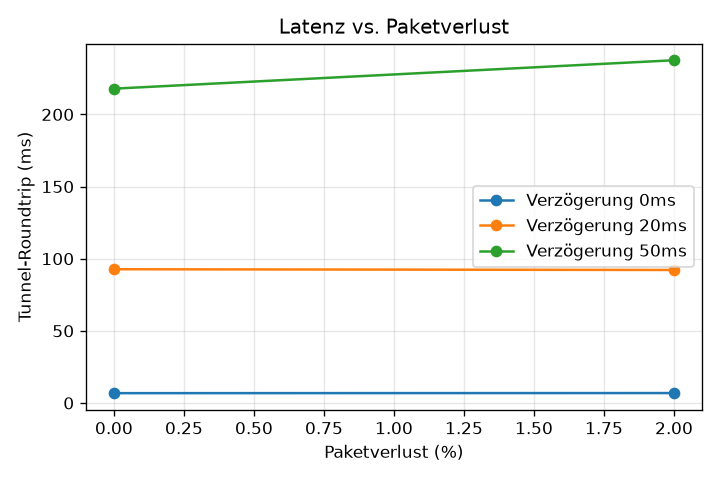
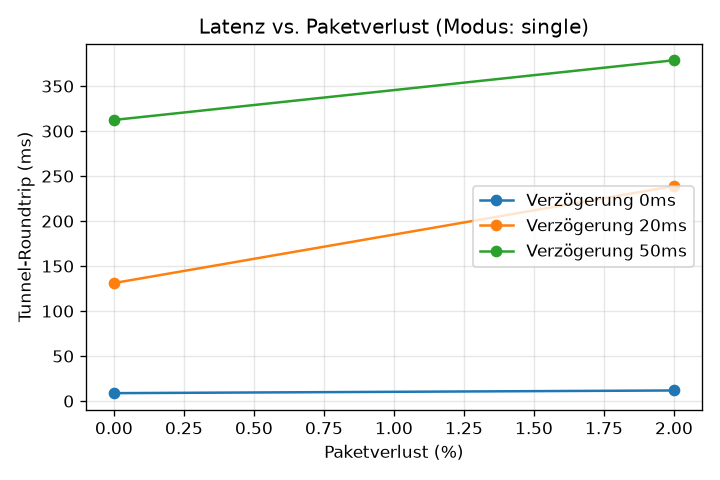
M16.4b: mode-aware evaluation figures
Extend plot.py for the mode dimension. The per-loss figures (latency-vs-delay,
latency-vs-loss) are now filtered to the reference mode (single) so modes are no
longer mixed on one axis, and a new plot_by_mode renders mean vs delay with one
series per mode at 0% loss -> latency-by-mode.png.

Rendered via scripts/plot.sh in the python+matplotlib container:
latency-vs-delay.png, latency-vs-loss.png, latency-by-mode.png. The mode figure
shows single/stream/udp overlapping at 0% loss -- latency is delay-dominated
(~6.5*delay), not transport-dominated.

No Rust changed -> workspace unchanged and green (TOTAL_PASSED=160); verification
is the plot run + visual check of the figure. Next: M16.4c the written analysis,
which closes M16.

Claude-Session: https://claude.ai/code/session_01TWNQVzYqWaWG8nB9JL6He3

diff --git a/scripts/plot.py b/scripts/plot.py
@@ -1,15 +1,18 @@
 #!/usr/bin/env python3
-"""M6.3 — render thesis evaluation figures from the netem sweep CSV.
+"""M6.3 / M16.4 — render thesis evaluation figures from the netem sweep CSV.
 
-Reads the sweep output (delay,loss,rate,n,mean_ms,min_ms,max_ms,p50_ms,p95_ms)
-and renders PNG figures next to it. Runs headless (Agg); intended to be executed
-inside a python container via scripts/plot.sh (no host install).
+Reads the sweep output and renders PNG figures next to it. Runs headless (Agg);
+intended to run inside a python container via scripts/plot.sh (no host install).
 
-Figures:
-  latency-vs-delay.png  — mean round-trip vs edge delay, one series per loss,
-                          p95 as the upper error bar.
-  latency-vs-loss.png   — mean round-trip vs packet loss (only when the sweep
-                          covers >1 distinct loss value).
+The M16 CSV carries a ``mode`` column (single/stream/udp); older CSVs without it
+are treated as a single mode. Figures:
+
+  latency-vs-delay.png  — mean round-trip vs edge delay for the reference mode,
+                          one series per loss, p95 as the upper error bar.
+  latency-vs-loss.png   — mean round-trip vs packet loss for the reference mode
+                          (only when the sweep covers >1 distinct loss value).
+  latency-by-mode.png   — mode comparison: mean round-trip vs edge delay, one
+                          series per mode at a fixed loss (only when >1 mode).
 """
 import csv
 import os
@@ -32,6 +35,24 @@ def num(s):
     return float(m.group(1)) if m else 0.0
 
 
+def mode_of(r):
+    return (r.get("mode") or "single").strip() or "single"
+
+
+def modes(rows):
+    seen = []
+    for r in rows:
+        m = mode_of(r)
+        if m not in seen:
+            seen.append(m)
+    return seen
+
+
+def reference_mode(rows):
+    ms = modes(rows)
+    return "single" if "single" in ms else ms[0]
+
+
 def load(path):
     with open(path, newline="") as f:
         rows = list(csv.DictReader(f))
@@ -41,9 +62,10 @@ def load(path):
     return rows
 
 
-def plot_vs_delay(rows):
+def plot_vs_delay(rows, mode):
+    sub = [r for r in rows if mode_of(r) == mode]
     by_loss = defaultdict(list)
-    for r in rows:
+    for r in sub:
         by_loss[r["loss"]].append((num(r["delay"]), float(r["mean_ms"]), float(r["p95_ms"])))
 
     plt.figure(figsize=(6, 4))
@@ -54,11 +76,11 @@ def plot_vs_delay(rows):
         upper = [max(0.0, p[2] - p[1]) for p in pts]
         plt.errorbar(
             xs, means, yerr=[[0] * len(means), upper],
-            marker="o", capsize=3, label=f"Verlust {loss}",
+            marker="o", capsize=3, label=f"Verlust {loss or '0%'}",
         )
     plt.xlabel("Edge-Verzögerung (ms)")
     plt.ylabel("Tunnel-Roundtrip (ms)")
-    plt.title("Latenz vs. Netzwerkverzögerung")
+    plt.title(f"Latenz vs. Netzwerkverzögerung (Modus: {mode})")
     plt.legend()
     plt.grid(True, alpha=0.3)
     out = os.path.join(OUTDIR, "latency-vs-delay.png")
@@ -68,24 +90,25 @@ def plot_vs_delay(rows):
     print("plot: wrote", out)
 
 
-def plot_vs_loss(rows):
-    by_delay = defaultdict(list)
-    for r in rows:
-        by_delay[r["delay"]].append((num(r["loss"]), float(r["mean_ms"])))
-    losses = {num(r["loss"]) for r in rows}
+def plot_vs_loss(rows, mode):
+    sub = [r for r in rows if mode_of(r) == mode]
+    losses = {num(r["loss"]) for r in sub}
     if len(losses) < 2:
         print("plot: <2 distinct loss values, skipping latency-vs-loss")
         return
+    by_delay = defaultdict(list)
+    for r in sub:
+        by_delay[r["delay"]].append((num(r["loss"]), float(r["mean_ms"])))
 
     plt.figure(figsize=(6, 4))
     for delay, pts in sorted(by_delay.items(), key=lambda kv: num(kv[0])):
         pts.sort()
         xs = [p[0] for p in pts]
         means = [p[1] for p in pts]
-        plt.plot(xs, means, marker="o", label=f"Verzögerung {delay}")
+        plt.plot(xs, means, marker="o", label=f"Verzögerung {delay or '0ms'}")
     plt.xlabel("Paketverlust (%)")
     plt.ylabel("Tunnel-Roundtrip (ms)")
-    plt.title("Latenz vs. Paketverlust")
+    plt.title(f"Latenz vs. Paketverlust (Modus: {mode})")
     plt.legend()
     plt.grid(True, alpha=0.3)
     out = os.path.join(OUTDIR, "latency-vs-loss.png")
@@ -95,10 +118,48 @@ def plot_vs_loss(rows):
     print("plot: wrote", out)
 
 
+def plot_by_mode(rows, loss="0%"):
+    ms = modes(rows)
+    if len(ms) < 2:
+        print("plot: <2 modes, skipping latency-by-mode")
+        return
+    plt.figure(figsize=(6, 4))
+    plotted = False
+    for m in ms:
+        pts = [
+            (num(r["delay"]), float(r["mean_ms"]))
+            for r in rows
+            if mode_of(r) == m and (r["loss"] or "0%") == loss
+        ]
+        if not pts:
+            continue
+        pts.sort()
+        xs = [p[0] for p in pts]
+        means = [p[1] for p in pts]
+        plt.plot(xs, means, marker="o", label=m)
+        plotted = True
+    if not plotted:
+        print(f"plot: no rows at loss={loss}, skipping latency-by-mode")
+        plt.close()
+        return
+    plt.xlabel("Edge-Verzögerung (ms)")
+    plt.ylabel("Tunnel-Roundtrip (ms)")
+    plt.title(f"Latenz je Betriebsart (Verlust {loss})")
+    plt.legend()
+    plt.grid(True, alpha=0.3)
+    out = os.path.join(OUTDIR, "latency-by-mode.png")
+    plt.tight_layout()
+    plt.savefig(out, dpi=120)
+    plt.close()
+    print("plot: wrote", out)
+
+
 def main():
     rows = load(DATA)
-    plot_vs_delay(rows)
-    plot_vs_loss(rows)
+    ref = reference_mode(rows)
+    plot_vs_delay(rows, ref)
+    plot_vs_loss(rows, ref)
+    plot_by_mode(rows, "0%")
 
 
 if __name__ == "__main__":

diff --git a/docs/planning/v1-first-task-packets.md b/docs/planning/v1-first-task-packets.md
@@ -423,8 +423,10 @@ Decomposed:
   analysis under `docs/thesis/data/`. Decomposed:
   - **M16.4a** ✅ mode-aware `tabulate.py` (Modus column, mean±95%-CI, p50/p95/p99;
     back-compatible with old CSVs) → regenerated `results-table.{md,tex}`.
-  - **M16.4b** mode-aware `plot.py`: latency-vs-delay per mode + a mode-comparison
-    figure.
+  - **M16.4b** ✅ mode-aware `plot.py`: per-loss figures filtered to the reference
+    mode + a new `latency-by-mode.png` (mean vs delay, one series per mode at 0%
+    loss). Rendered all three PNGs; the modes overlap at 0% loss (latency is
+    delay-dominated, not transport-dominated).
   - **M16.4c** write the German analysis (`results.md`) from the new data.
 
 ## Milestone 17 — Tiefe BA-Thesis (ersetzt M7, HAW-Vorlage, ~64 S.)

diff --git a/docs/planning/PROGRESS.md b/docs/planning/PROGRESS.md
@@ -38,7 +38,7 @@ Gap-Analyse gegen Code → Roadmap in `v1-first-task-packets.md`: **M9** generel
 ### 📄 BA-Thesis-Neugestaltung (User-Direktive, Zyklus 75)
 Die M7-Thesis (21 S., `docs/thesis/thesis.tex`) wird **ersetzt**: zu flach, falsche Vorlage. Neu: **offizielle HAW-Vorlage** (heruntergeladen+extrahiert nach `docs/thesis/haw-template/`), **~64 Seiten**, tiefere/besser formulierte Analysen, und die **Experimente/Parameterstudie ans Ende** (erst Produkt M11–M15 fertig, dann Studie am fertigen Produkt). Neue Milestones **M16** (umfassende Parameterstudie) + **M17** (tiefe Thesis) — Details in `v1-first-task-packets.md`.
 
-**M16** (umfassende Parameterstudie am fertigen Produkt): M16.1 ✅ (**statistisch belastbare `Summary`** — `bench::summarize` liefert jetzt zusätzlich `stddev_ms` [Stichproben-Std, n−1-Nenner, 0 bei n<2], `ci95_ms` [Halbbreite des 95%-KI des Mittels = 1.96·σ/√n] und `p99_ms`; `CSV_HEADER`/`csv_row` um diese drei Spalten **hinten angehängt** [erste 9 Spalten unverändert → bestehende plot.py/tabulate.py brechen nicht]. 3 Tests: bekannte Samples inkl. σ/KI/p99, Einzel-Sample→0 Spread, csv_row-Format) · M16.2 ✅ (**`sweep.sh` erweitert** — PoW-Schwierigkeitsachse `SWEEP_POWS` → `EDGE_POW_DIFFICULTY` [neu über `docker-compose.yml` als `${EDGE_POW_DIFFICULTY:-8}` durchgereicht, Default unverändert], 12-Spalten-Stats-CSV mit vorangestellter `pow`-Spalte, `run_condition(pow,delay,loss,rate)`, Default-n auf 30. Validiert: `bash -n` OK, `docker compose config` zeigt Override 16 bzw. Default 8) · M16.2b ✅ (**Stream-Betriebsart messbar** — `bench::run_bench_stream`/`run_once_stream`: pro Iteration dial→`client_tunnel_stream` mit lokalem Duplex, Payload schreiben→half-close→Echo lesen, Zeit messen [voll-duplex Streaming-Pfad statt one-shot]; Client-`main` wählt via `CT_BENCH_MODE=stream` zwischen `run_bench`/`run_bench_stream`; `sweep.sh` um `SWEEP_MODES`-Achse [Default "single"] + `mode`-Spalte erweitert, `BENCH_MODE` über `docker-compose.yml` durchgereicht. Frozen-Test `run_bench_stream_measures_iterations`: Agent serviert `serve_noise_stream`, 3 Streaming-Round-Trips gemessen. Validiert: bash -n OK, compose config `CT_BENCH_MODE: stream`. **TOTAL_PASSED=159**) · M16.2c ✅ (**UDP-Betriebsart messbar** — `bench::run_bench_udp`/`run_once_udp`: pro Iteration dial→`udp_selftest` [ein Datagramm durch den Tunnel + Echo], Zeit ab dial; Client-`main`-Bench-Zweig als `match CT_BENCH_MODE {stream, udp, _}` umgebaut. Frozen-Test `run_bench_udp_measures_iterations`: Agent `serve_noise_udp`, **fixed-port** UDP-Echo-Origin [`recv_from`→`send_to peer` vom gebundenen Port], 3 Round-Trips. **TOTAL_PASSED=160**. Der Live-`SWEEP_MODES=udp`-Compose-Lauf braucht einen fixed-port-UDP-Echo [socat-`fork` antwortet von Ephemeral-Port → vom connected Agent-Socket verworfen] → Overlay kommt in M16.3) · M16.3 ✅ (**Matrix live gefahren → CSV** — neues Bin `crates/agent/src/bin/udp_echo.rs` [fixed-port UDP-Echo, `recv_from`→`send_to peer` vom gebundenen :8080, multi-iteration-fähig], `docker/docker-compose.udpbench.yml`-Overlay [origin=udp_echo, agent proto=udp], `sweep.sh` wählt das Overlay bei `mode=udp`. Live-Lauf `SWEEP_MODES="single stream udp" SWEEP_DELAYS="0ms 20ms 50ms" SWEEP_LOSSES="0% 2%" n=20` → `docs/thesis/data/latency.csv`, **18 Zeilen** über alle 3 Modi mit voller M16-Statistik. Ergebnisse: Baseline ~8ms alle Modi; Latenz skaliert ~6.5·delay [Handshake-RTTs: 20ms→131ms, 50ms→312ms]; 2% Verlust treibt den p99-Tail auf ~1.3s [retransmit-getrieben]) · M16.4a ✅ (**tabulate.py modus-aware** — führende `Modus`-Spalte, `Mittel ± 95%-KI` [aus `ci95_ms`] + p50/p95/p99; abwärtskompatibel [fehlende Spalten → "single"/"-"], sortiert nach (mode,delay,loss). Neu generiert `results-table.md` [18 Zeilen] + `results-table.tex` [booktabs, `$\pm$`]. Im Python-Container [stdlib, kein pip] gelaufen) · M16.4b ⏳ plot.py modus-aware (Latenz-vs-Delay je Modus + Modus-Vergleichsplot) · M16.4c ⏳ deutsche Analyse `results.md`.
+**M16** (umfassende Parameterstudie am fertigen Produkt): M16.1 ✅ (**statistisch belastbare `Summary`** — `bench::summarize` liefert jetzt zusätzlich `stddev_ms` [Stichproben-Std, n−1-Nenner, 0 bei n<2], `ci95_ms` [Halbbreite des 95%-KI des Mittels = 1.96·σ/√n] und `p99_ms`; `CSV_HEADER`/`csv_row` um diese drei Spalten **hinten angehängt** [erste 9 Spalten unverändert → bestehende plot.py/tabulate.py brechen nicht]. 3 Tests: bekannte Samples inkl. σ/KI/p99, Einzel-Sample→0 Spread, csv_row-Format) · M16.2 ✅ (**`sweep.sh` erweitert** — PoW-Schwierigkeitsachse `SWEEP_POWS` → `EDGE_POW_DIFFICULTY` [neu über `docker-compose.yml` als `${EDGE_POW_DIFFICULTY:-8}` durchgereicht, Default unverändert], 12-Spalten-Stats-CSV mit vorangestellter `pow`-Spalte, `run_condition(pow,delay,loss,rate)`, Default-n auf 30. Validiert: `bash -n` OK, `docker compose config` zeigt Override 16 bzw. Default 8) · M16.2b ✅ (**Stream-Betriebsart messbar** — `bench::run_bench_stream`/`run_once_stream`: pro Iteration dial→`client_tunnel_stream` mit lokalem Duplex, Payload schreiben→half-close→Echo lesen, Zeit messen [voll-duplex Streaming-Pfad statt one-shot]; Client-`main` wählt via `CT_BENCH_MODE=stream` zwischen `run_bench`/`run_bench_stream`; `sweep.sh` um `SWEEP_MODES`-Achse [Default "single"] + `mode`-Spalte erweitert, `BENCH_MODE` über `docker-compose.yml` durchgereicht. Frozen-Test `run_bench_stream_measures_iterations`: Agent serviert `serve_noise_stream`, 3 Streaming-Round-Trips gemessen. Validiert: bash -n OK, compose config `CT_BENCH_MODE: stream`. **TOTAL_PASSED=159**) · M16.2c ✅ (**UDP-Betriebsart messbar** — `bench::run_bench_udp`/`run_once_udp`: pro Iteration dial→`udp_selftest` [ein Datagramm durch den Tunnel + Echo], Zeit ab dial; Client-`main`-Bench-Zweig als `match CT_BENCH_MODE {stream, udp, _}` umgebaut. Frozen-Test `run_bench_udp_measures_iterations`: Agent `serve_noise_udp`, **fixed-port** UDP-Echo-Origin [`recv_from`→`send_to peer` vom gebundenen Port], 3 Round-Trips. **TOTAL_PASSED=160**. Der Live-`SWEEP_MODES=udp`-Compose-Lauf braucht einen fixed-port-UDP-Echo [socat-`fork` antwortet von Ephemeral-Port → vom connected Agent-Socket verworfen] → Overlay kommt in M16.3) · M16.3 ✅ (**Matrix live gefahren → CSV** — neues Bin `crates/agent/src/bin/udp_echo.rs` [fixed-port UDP-Echo, `recv_from`→`send_to peer` vom gebundenen :8080, multi-iteration-fähig], `docker/docker-compose.udpbench.yml`-Overlay [origin=udp_echo, agent proto=udp], `sweep.sh` wählt das Overlay bei `mode=udp`. Live-Lauf `SWEEP_MODES="single stream udp" SWEEP_DELAYS="0ms 20ms 50ms" SWEEP_LOSSES="0% 2%" n=20` → `docs/thesis/data/latency.csv`, **18 Zeilen** über alle 3 Modi mit voller M16-Statistik. Ergebnisse: Baseline ~8ms alle Modi; Latenz skaliert ~6.5·delay [Handshake-RTTs: 20ms→131ms, 50ms→312ms]; 2% Verlust treibt den p99-Tail auf ~1.3s [retransmit-getrieben]) · M16.4a ✅ (**tabulate.py modus-aware** — führende `Modus`-Spalte, `Mittel ± 95%-KI` [aus `ci95_ms`] + p50/p95/p99; abwärtskompatibel [fehlende Spalten → "single"/"-"], sortiert nach (mode,delay,loss). Neu generiert `results-table.md` [18 Zeilen] + `results-table.tex` [booktabs, `$\pm$`]. Im Python-Container [stdlib, kein pip] gelaufen) · M16.4b ✅ (**plot.py modus-aware** — `mode_of`/`reference_mode`; die Per-Loss-Figuren [latency-vs-delay, latency-vs-loss] werden jetzt auf den Referenz-Modus [single] gefiltert [kein Modus-Mischen], neuer `plot_by_mode(loss="0%")` → `latency-by-mode.png` [Mittel vs. Delay, eine Serie je Modus]. Im matplotlib-Container gerendert → 3 PNGs. Befund: bei 0% Verlust überlagern sich single/stream/udp fast exakt → Latenz ist delay-dominiert [~6.5·delay], nicht transport-dominiert) · M16.4c ⏳ deutsche Analyse `results.md`.
 
 **M15** (pseudonyme Accounts + Krypto-Payment, ADR-0012, SPEC §9): M15.1 ✅ (**Prepaid-Credit-Ledger** — `ct-control-plane::accounts::Ledger` [In-Memory, kein Trust-Material]: opaker zufälliger `AccountId(32 B)` [Pseudonymität, keine PII], `open_account` [Start-Balance 0], `balance`, `credit` [saturierend → kein Wrap durch feindliche Top-ups], `debit` [schlägt bei zu wenig Guthaben mit `InsufficientCredit{balance,requested}` fehl, **ohne** die Balance zu verändern]. `LedgerError::{UnknownAccount,InsufficientCredit}` mit Display/Error. 5 Tests: distinkte Ids+Null-Start, credit→debit-Verlauf, verweigerter Debit unverändert, Null-Balance kann nicht ausgeben, Unknown-Account-Fehler. **Anmerkung**: pseudonym+prepaid stoppt keinen *finanzierten* Sybil-Angreifer — bleibt offenes Risiko [BACKLOG.md]) · M15.2 ✅ (**Guthaben-gekoppelte Token-Ausgabe** — `ct-control-plane::billing::issue_token_for_payment(ledger, account, price)`: `debit` läuft zuerst, sodass bei `InsufficientCredit`/`UnknownAccount` **kein** Token geprägt und die Balance unverändert bleibt; bei Erfolg wird abgebucht und ein zufälliger `RoutingToken(32 B)` zurückgegeben. `TOKEN_PRICE`-Default. 4 Tests: finanziert→Token+Abbuchung, Null-Balance→verweigert ohne Prägung/Abbuchung, bis-Guthaben-erschöpft [3 distinkte Tokens], Unknown-Account) · M15.3 ✅ (**Krypto-Payment-Intake-Stub** — `ct-control-plane::payment::PaymentIntake`: `create_intent(account, credits)` → opaker `PaymentId(32 B)`; `confirm_payment(id, ledger)` verifiziert (Stub für On-Chain-Prüfung) und schreibt `ledger.credit` gut. **Idempotent**: `confirmed`-Flag wird erst nach erfolgreichem Credit gesetzt → ein replayter Confirm gibt `AlreadyConfirmed` ohne Doppel-Gutschrift; unbekannte Payment → `UnknownPayment`; Credit-Fehler → `Ledger(LedgerError)`. 4 Tests inkl. Mini-E2E `account_topup_then_gated_issuance_end_to_end`: broke→Issuance denied, Payment confirm→Balance 3, dann `issue_token_for_payment`→Token+Balance 2) · M15.4a ✅ (**Billing-HTTP-Router** — `billing_router(SharedBilling)` [axum]; `BillingState{ledger, intake}` unter **einem** `Arc<Mutex>` [confirm→credit atomar, keine Lock-Ordering]. `POST /accounts/open`→{account hex}, `POST /payment/intent`{account,credits}→{payment hex}, `POST /payment/confirm`{payment}→{balance} [409 AlreadyConfirmed, 404 unknown/UnknownAccount], `POST /billing/issue`{account,price}→{token hex} [402 PAYMENT_REQUIRED bei zu wenig Guthaben, 404 unknown account]. Oneshot-Test `billing_open_topup_then_buy_token`: open→broke=402→intent→confirm[balance=3]→issue=200→replay-confirm=409; + unknown-payment=404) · M15.4b ✅ (**Billing am Live-Service** — `control_plane_router(enrollment, registry, billing)` merged jetzt auch `billing_router`; `main` baut `BillingState`; `ControlPlaneClient` um `open_account`/`create_payment_intent`/`confirm_payment`/`buy_token` erweitert. Live-Service-E2E-Test `client_drives_account_topup_and_gated_issuance` [echter Socket]: open→broke `buy_token`=402→intent→confirm[balance=3]→`buy_token`→RoutingToken; replay-confirm=409. Merged-Router-Test um `/accounts/open` ergänzt) · **M15-E2E (HTTP)** ✅ account→top-up→gated Issuance→Token + Null-Balance denied am laufenden Service belegt · M15.5 ✅ (**Money→Tunnel-E2E** — `billing_issued_token_establishes_a_tunnel` in ct-client: das über den bezahlten Flow [open→topup→gated issuance] ausgegebene Token etabliert einen **echten Noise-Tunnel** durch den Edge-Relay + Agent-`serve_noise_bridge` + echten TCP-Echo-Origin [`paid-payload` kommt verschlüsselt zurück]; ein Null-Balance-Account wird vorher am Token verweigert. ct-client dev-dep um ct-control-plane + axum ergänzt; deterministischer Gate-Test statt Compose-Smoke → strenger + hermetisch). **🎯 Milestone 15 (Accounts + Payment) komplett — alle v1-Feature-Milestones (M9–M15) fertig.**
 
@@ -106,6 +106,7 @@ Die M7-Thesis (21 S., `docs/thesis/thesis.tex`) wird **ersetzt**: zu flach, fals
 - **Cycle 44 — M5.5b ✅**: `docker/netem-entrypoint.sh` applies `tc qdisc … netem` (CT_NETEM_DELAY/LOSS/RATE) to eth0 before exec-ing the node; added to the image + `NET_ADMIN` + per-node `{EDGE,AGENT,CLIENT}_{DELAY,LOSS,RATE}` env. Verified: `EDGE_DELAY=30ms EDGE_LOSS=1% docker compose up` → `netem: applying delay 30ms loss 1%`, `client: tunnel round-trip OK`, `COMPOSE_EXIT=0`. **Milestone 5 essentially complete** (M5.6 smoke achieved by M5.5a). Next: M6 performance evaluation.
 - **Cycle 45 — M6.1a**: started M6 (perf eval). `ct-client::bench::summarize(&[f64]) -> Option<Summary>` — mean/min/max/p50/p95 (nearest-rank percentiles) over latency samples. Tests: known set, unsorted input, empty → None. Full workspace 92 tests green. Committed. Next: M6.1b latency runner + client bench mode.
 - **Cycle 46 — M6.1b**: `ct-client::bench::run_bench(edge, cert, token, payload, iterations) -> Vec<f64>` — N fresh-connection dial→tunnel→verify round-trips, per-iteration latency (ms); `csv_row`/`CSV_HEADER`. Tests: `csv_row_formats` (pure) + `run_bench_measures_iterations` (3 round-trips through a real edge+agent → 3 samples). **M6.1 bench harness complete.** Full workspace 94 tests green. Committed. Next: M6.1c client bench mode + M6.2 sweep.
+- **Cycle 116 — M16.4b**: `plot.py` modus-aware. `scripts/plot.py` neu: `mode_of`/`modes`/`reference_mode`; `plot_vs_delay(rows, mode)` und `plot_vs_loss(rows, mode)` filtern auf den Referenz-Modus (single), damit Modi nicht mehr vermischt werden; neuer `plot_by_mode(rows, loss="0%")` zeichnet Mittel vs. Delay mit je einer Serie pro Modus → `latency-by-mode.png`. Via `scripts/plot.sh` im python:3-slim+matplotlib-Container gerendert → `latency-vs-delay.png`, `latency-vs-loss.png`, `latency-by-mode.png` (je ~40 KB) neu erzeugt; Modus-Plot visuell geprüft (single/stream/udp überlagern bei 0% Verlust → delay-dominiert). Kein Rust geändert → Workspace unverändert grün (TOTAL_PASSED=160); Verifikation = plot-Lauf + Sichtprüfung. Committed. Next: M16.4c (deutsche Analyse `results.md`) → schließt M16.
 - **Cycle 115 — M16.4a**: `tabulate.py` modus-aware für die neue CSV. `scripts/tabulate.py` neu: `mode_of(r)` (Default "single"), Sortierung nach (mode,delay,loss,rate), `has_mode`/`has_rate`-Spaltenerkennung, `mean_ci(r)` = `Mittel ± ci95`, p50/p95/p99 statt min/max; MD- + booktabs-TeX-Ausgabe mit `Modus`-Spalte und `$\pm$`. Abwärtskompatibel: fehlende Stats/mode → "-"/"single". Gegen `docs/thesis/data/latency.csv` im python:3-slim-Container (stdlib, kein pip) gelaufen → `results-table.md` (18 Zeilen, alle 3 Modi) + `results-table.tex` (sauberes booktabs) neu generiert. Kein Rust geändert → Workspace unverändert grün (TOTAL_PASSED=160); Verifikation = tabulate-Lauf + Sichtprüfung der Tabellen. Committed. Next: M16.4b (plot.py modus-aware).
 - **Cycle 114 — M16.3**: Parameter-Matrix live gefahren → echte CSV-Daten. Neues Bin `crates/agent/src/bin/udp_echo.rs` (bindet `CT_UDP_ECHO_LISTEN` [Default 0.0.0.0:8080], `recv_from`→`send_to peer` vom gebundenen Port → antwortet für jede sequentielle Iteration von :8080, anders als socat-`fork`). Dockerfile kopiert `udp_echo`. Neues `docker/docker-compose.udpbench.yml` (origin=`ct-testbed`/`udp_echo`, agent `CT_AGENT_ORIGIN_PROTO=udp` — Client bleibt im Bench-Modus via `CT_BENCH_MODE=udp`). `sweep.sh`: `run_condition` hängt bei `mode=udp` das Overlay an (lokales `compose`-Array). Gate: `udp_echo` kompiliert, BUILD_RC=0/TEST_RC=0/**TOTAL_PASSED=160**. Live-Sweep (18 Bedingungen: 3 Modi × 3 Delays × 2 Losses, n=20) sauber durch → `docs/thesis/data/latency.csv` (18 Zeilen, keine Skips). Echte Daten: single/stream/udp @0ms≈8ms, @20ms≈131ms, @50ms≈312ms (Handshake ~6.5 RTTs); 2%-Verlust → p99 bis ~1.36s. Committed. Next: M16.4 (plot.py/tabulate.py für Modi+Stats erweitern + Analyse `docs/thesis/data/`).
 - **Cycle 113 — M16.2c**: UDP-Betriebsart messbar. `crates/client/src/bench.rs`: `run_once_udp` (dial→`udp_selftest(&conn, …)`, Zeit ab dial, Echo-Vergleich) + `run_bench_udp`. `crates/client/src/main.rs`: Bench-Zweig auf `match bench_mode {"stream"→run_bench_stream, "udp"→run_bench_udp, _→run_bench}` umgestellt (Import `run_bench_udp`). Frozen-Test `run_bench_udp_measures_iterations`: UDP-Echo-Origin bindet einen Socket und `send_to(peer)` vom gebundenen Port (multi-peer-fähig, im Gegensatz zu socat-`fork`), Agent serviert `serve_noise_udp`, 3 Datagramm-Round-Trips gemessen. Hermetic gate: BUILD_RC=0, TEST_RC=0, **TOTAL_PASSED=160** (+1). Honest-Scoping: der Live-UDP-Sweep braucht einen fixed-port-Echo-Origin → in M16.3. Committed. Next: M16.3 (Matrix fahren → CSV, inkl. UDP-Bench-Overlay).